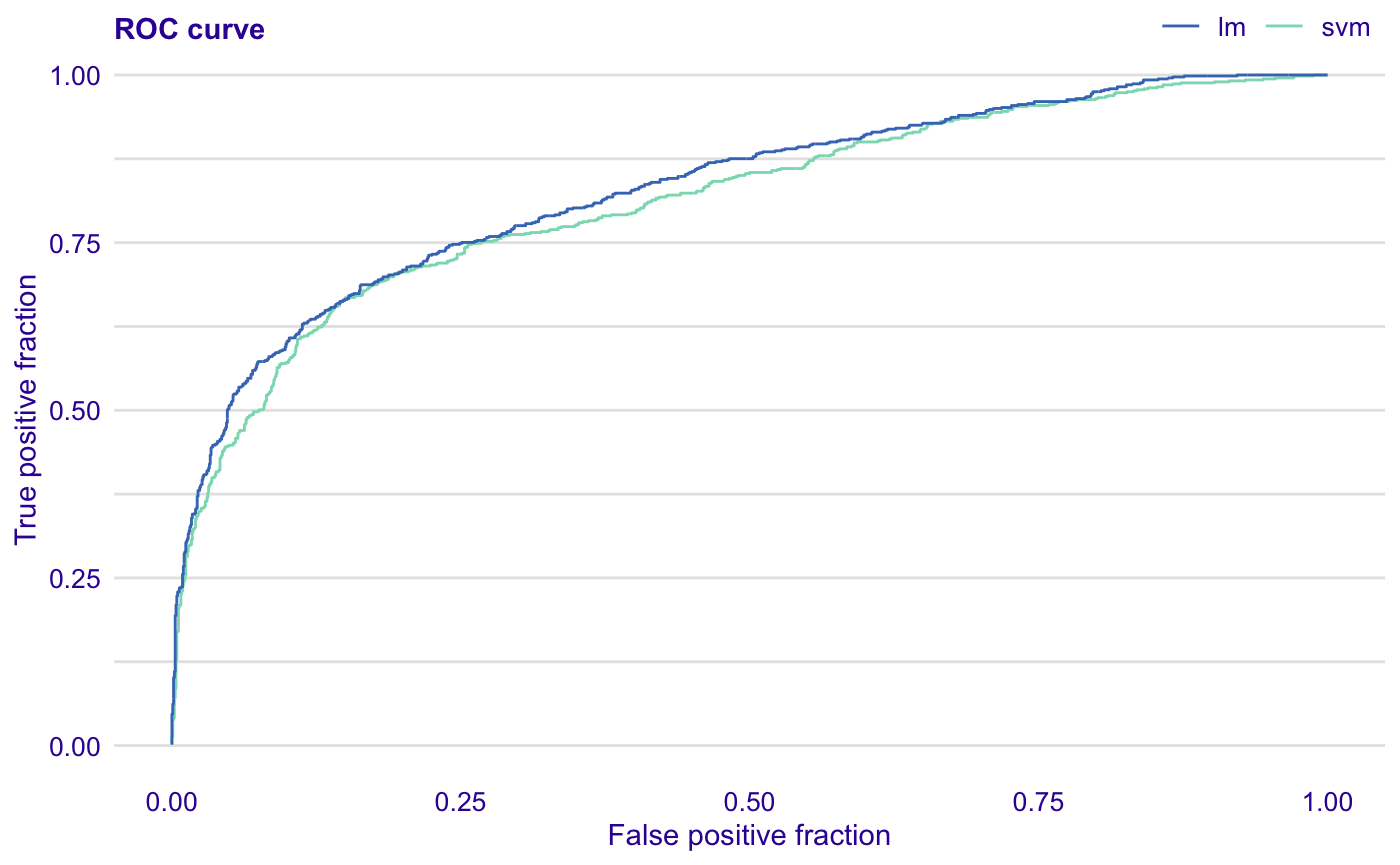
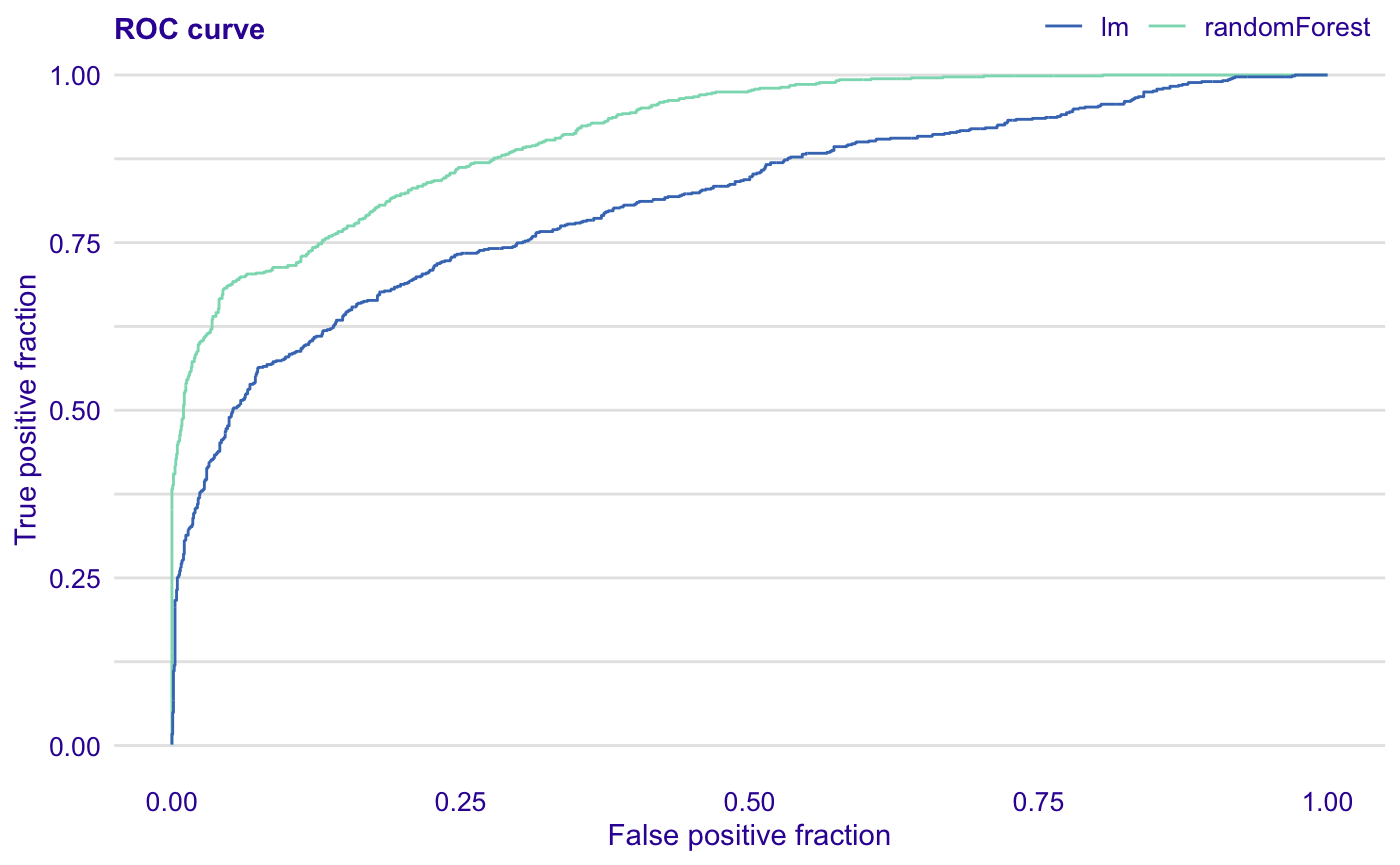
Built site for auditor: 1.2.0.9000@c37a981

diff --git a/articles/model_evaluation_audit.html b/articles/model_evaluation_audit.html
@@ -127,37 +127,36 @@
 <div id="data" class="section level2">
 <h2 class="hasAnchor">
 <a href="#data" class="anchor"></a>Data</h2>
-<p>We work on <code>titanic</code> dataset form the <code>DALEX</code> package.</p>
-<div class="sourceCode" id="cb1"><html><body><pre class="r"><span class="no">titanic</span> <span class="kw">&lt;-</span> <span class="fu"><a href="https://rdrr.io/r/stats/na.fail.html">na.omit</a></span>(<span class="kw pkg">DALEX</span><span class="kw ns">::</span><span class="no"><a href="https://rdrr.io/pkg/DALEX/man/titanic.html">titanic</a></span>)
-<span class="no">titanic</span>$<span class="no">survived</span> <span class="kw">=</span> <span class="fu"><a href="https://rdrr.io/r/base/numeric.html">as.numeric</a></span>(<span class="no">titanic</span>$<span class="no">survived</span>)-<span class="fl">1</span>
-<span class="fu"><a href="https://rdrr.io/r/utils/head.html">head</a></span>(<span class="no">titanic</span>)</pre></body></html></div>
-<pre><code>##   gender age class    embarked       country  fare sibsp parch survived
-## 1   male  42   3rd Southampton United States  7.11     0     0        0
-## 2   male  13   3rd Southampton United States 20.05     0     2        0
-## 3   male  16   3rd Southampton United States 20.05     1     1        0
-## 4 female  39   3rd Southampton       England 20.05     1     1        1
-## 5 female  16   3rd Southampton        Norway  7.13     0     0        1
-## 6   male  25   3rd Southampton United States  7.13     0     0        1</code></pre>
+<p>We work on <code>titanic_imputed</code> dataset form the <code>DALEX</code> package.</p>
+<div class="sourceCode" id="cb1"><html><body><pre class="r"><span class="fu"><a href="https://rdrr.io/r/base/library.html">library</a></span>(<span class="no">DALEX</span>)
+<span class="fu"><a href="https://rdrr.io/r/utils/head.html">head</a></span>(<span class="no">titanic_imputed</span>)</pre></body></html></div>
+<pre><code>##   gender age class    embarked  fare sibsp parch survived
+## 1   male  42   3rd Southampton  7.11     0     0        0
+## 2   male  13   3rd Southampton 20.05     0     2        0
+## 3   male  16   3rd Southampton 20.05     1     1        0
+## 4 female  39   3rd Southampton 20.05     1     1        1
+## 5 female  16   3rd Southampton  7.13     0     0        1
+## 6   male  25   3rd Southampton  7.13     0     0        1</code></pre>
 </div>
 <div id="models" class="section level2">
 <h2 class="hasAnchor">
 <a href="#models" class="anchor"></a>Models</h2>
-<p>We fit 2 models: glm and svm.</p>
-<div class="sourceCode" id="cb3"><html><body><pre class="r"><span class="no">model_glm</span> <span class="kw">&lt;-</span> <span class="fu"><a href="https://rdrr.io/r/stats/glm.html">glm</a></span>(<span class="no">survived</span> ~ <span class="no">.</span>, <span class="kw">data</span> <span class="kw">=</span> <span class="no">titanic</span>, <span class="kw">family</span> <span class="kw">=</span> <span class="no">binomial</span>)
+<p>We fit 2 models: glm and randomForest.</p>
+<div class="sourceCode" id="cb3"><html><body><pre class="r"><span class="no">model_glm</span> <span class="kw">&lt;-</span> <span class="fu"><a href="https://rdrr.io/r/stats/glm.html">glm</a></span>(<span class="no">survived</span> ~ <span class="no">.</span>, <span class="kw">data</span> <span class="kw">=</span> <span class="no">titanic_imputed</span>, <span class="kw">family</span> <span class="kw">=</span> <span class="st">"binomial"</span>)
 
-<span class="fu"><a href="https://rdrr.io/r/base/library.html">library</a></span>(<span class="no">e1071</span>)
-<span class="no">model_svm</span> <span class="kw">&lt;-</span> <span class="fu"><a href="https://rdrr.io/pkg/e1071/man/svm.html">svm</a></span>(<span class="no">survived</span> ~ <span class="no">.</span>, <span class="kw">data</span> <span class="kw">=</span> <span class="no">titanic</span>)</pre></body></html></div>
+<span class="fu"><a href="https://rdrr.io/r/base/library.html">library</a></span>(<span class="no">randomForest</span>)
+<span class="no">model_rf</span> <span class="kw">&lt;-</span> <span class="fu"><a href="https://rdrr.io/pkg/randomForest/man/randomForest.html">randomForest</a></span>(<span class="no">survived</span> ~ <span class="no">.</span>, <span class="kw">data</span> <span class="kw">=</span> <span class="no">titanic_imputed</span>)</pre></body></html></div>
 </div>
 <div id="preparation-for-evaluation-analysis" class="section level2">
 <h2 class="hasAnchor">
 <a href="#preparation-for-evaluation-analysis" class="anchor"></a>Preparation for evaluation analysis</h2>
 <p>The first step is creating <code>explainer</code> object with the <code>DALEX</code> package. It’s an object that can be used to audit a model. It wraps up a model with meta-data.</p>
-<div class="sourceCode" id="cb4"><html><body><pre class="r"><span class="no">exp_glm</span> <span class="kw">&lt;-</span> <span class="kw pkg">DALEX</span><span class="kw ns">::</span><span class="fu"><a href="https://rdrr.io/pkg/DALEX/man/explain.html">explain</a></span>(<span class="no">model_glm</span>, <span class="kw">data</span> <span class="kw">=</span> <span class="no">titanic</span>, <span class="kw">y</span> <span class="kw">=</span> <span class="no">titanic</span>$<span class="no">survived</span>)
-<span class="no">exp_svm</span> <span class="kw">&lt;-</span> <span class="kw pkg">DALEX</span><span class="kw ns">::</span><span class="fu"><a href="https://rdrr.io/pkg/DALEX/man/explain.html">explain</a></span>(<span class="no">model_svm</span>, <span class="kw">data</span> <span class="kw">=</span> <span class="no">titanic</span>, <span class="kw">y</span> <span class="kw">=</span> <span class="no">titanic</span>$<span class="no">survived</span>, <span class="kw">label</span> <span class="kw">=</span> <span class="st">"svm"</span>)</pre></body></html></div>
+<div class="sourceCode" id="cb4"><html><body><pre class="r"><span class="no">exp_glm</span> <span class="kw">&lt;-</span> <span class="kw pkg">DALEX</span><span class="kw ns">::</span><span class="fu"><a href="https://rdrr.io/pkg/DALEX/man/explain.html">explain</a></span>(<span class="no">model_glm</span>, <span class="kw">data</span> <span class="kw">=</span> <span class="no">titanic_imputed</span>, <span class="kw">y</span> <span class="kw">=</span> <span class="no">titanic_imputed</span>$<span class="no">survived</span>)
+<span class="no">exp_rf</span> <span class="kw">&lt;-</span> <span class="kw pkg">DALEX</span><span class="kw ns">::</span><span class="fu"><a href="https://rdrr.io/pkg/DALEX/man/explain.html">explain</a></span>(<span class="no">model_rf</span>, <span class="kw">data</span> <span class="kw">=</span> <span class="no">titanic_imputed</span>, <span class="kw">y</span> <span class="kw">=</span> <span class="no">titanic_imputed</span>$<span class="no">survived</span>)</pre></body></html></div>
 <p>Second step is creating <code>auditor_model_evaluation</code> object that can be further used for validating a model.</p>
 <div class="sourceCode" id="cb5"><html><body><pre class="r"><span class="fu"><a href="https://rdrr.io/r/base/library.html">library</a></span>(<span class="no">auditor</span>)
 <span class="no">eva_glm</span> <span class="kw">&lt;-</span> <span class="fu"><a href="../reference/model_evaluation.html">model_evaluation</a></span>(<span class="no">exp_glm</span>)
-<span class="no">eva_svm</span> <span class="kw">&lt;-</span> <span class="fu"><a href="../reference/model_evaluation.html">model_evaluation</a></span>(<span class="no">exp_svm</span>)</pre></body></html></div>
+<span class="no">eva_rf</span> <span class="kw">&lt;-</span> <span class="fu"><a href="../reference/model_evaluation.html">model_evaluation</a></span>(<span class="no">exp_rf</span>)</pre></body></html></div>
 </div>
 <div id="plots" class="section level2">
 <h2 class="hasAnchor">
@@ -167,20 +166,20 @@
 <a href="#receiver-operating-characteristic-roc" class="anchor"></a>Receiver operating characteristic (ROC)</h3>
 <p>Receiver operating characteristic (ROC) curve is a tool for visualising a classifier’s performance. It answers the question of how well the model discriminates between the two classes. The boundary between classes is determined by a threshold value. ROC illustrates the performance of a classification model at various threshold settings.</p>
 <p>The diagonal line <code>y = x</code> corresponds to a classifier that randomly guess the positive class half the time. Any model that appears in the lower right part of plot performs worse than random guessing. The closer the curve is to the the left border and top border of plot, the more accurate the classifier is.</p>
-<div class="sourceCode" id="cb6"><html><body><pre class="r"><span class="fu"><a href="https://rdrr.io/r/graphics/plot.html">plot</a></span>(<span class="no">eva_glm</span>, <span class="no">eva_svm</span>, <span class="kw">type</span> <span class="kw">=</span> <span class="st">"roc"</span>)</pre></body></html></div>
+<div class="sourceCode" id="cb6"><html><body><pre class="r"><span class="fu"><a href="https://rdrr.io/r/graphics/plot.html">plot</a></span>(<span class="no">eva_glm</span>, <span class="no">eva_rf</span>, <span class="kw">type</span> <span class="kw">=</span> <span class="st">"roc"</span>)</pre></body></html></div>
 <p><img src="model_evaluation_audit_files/figure-html/unnamed-chunk-5-1.png" width="700"></p>
 <div class="sourceCode" id="cb7"><html><body><pre class="r"># or
-# plot_roc(eva_glm, eva_svm)</pre></body></html></div>
+# plot_roc(eva_glm, eva_rf)</pre></body></html></div>
 </div>
 <div id="lift-chart" class="section level3">
 <h3 class="hasAnchor">
 <a href="#lift-chart" class="anchor"></a>LIFT chart</h3>
 <p>The LIFT chart is a rate of positive prediction (<em>RPP</em>) plotted against true positive (<em>TP</em>) on a threshold <em>t</em>.</p>
 <p>The chart illustrates varying performance of the model for different thresholds. A random and ideal models are represented by dashed curves (lower and upper respectively). The closer the LIFT curve gets to the upper dashed curve (ideal model), the better a model is.</p>
-<div class="sourceCode" id="cb8"><html><body><pre class="r"><span class="fu"><a href="https://rdrr.io/r/graphics/plot.html">plot</a></span>(<span class="no">eva_glm</span>, <span class="no">eva_svm</span>, <span class="kw">type</span> <span class="kw">=</span> <span class="st">"lift"</span>)</pre></body></html></div>
+<div class="sourceCode" id="cb8"><html><body><pre class="r"><span class="fu"><a href="https://rdrr.io/r/graphics/plot.html">plot</a></span>(<span class="no">eva_glm</span>, <span class="no">eva_rf</span>, <span class="kw">type</span> <span class="kw">=</span> <span class="st">"lift"</span>)</pre></body></html></div>
 <p><img src="model_evaluation_audit_files/figure-html/unnamed-chunk-6-1.png" width="700"></p>
 <div class="sourceCode" id="cb9"><html><body><pre class="r"># or
-# plot_lift(eva_glm, eva_svm)</pre></body></html></div>
+# plot_lift(eva_glm, eva_rf)</pre></body></html></div>
 </div>
 </div>
 <div id="other-methods" class="section level2">
